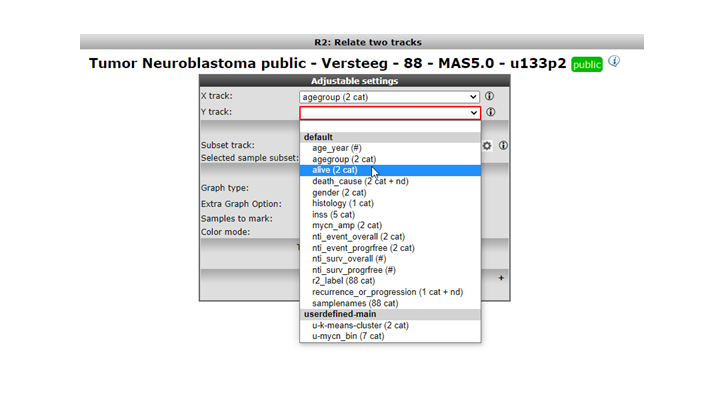
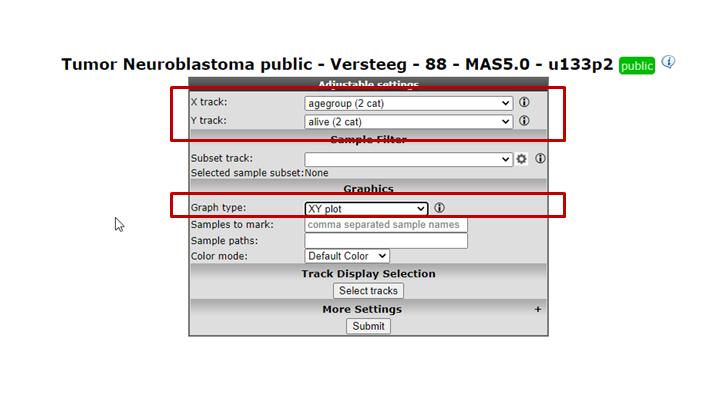
Annotattion analysis update / moving pics to separete dir

Changed region(s): [[0.0917, 0.0625, 0.9472, 0.8438], [0.1528, 0.5312, 0.1833, 0.5625]]

diff --git a/docs/Annotation_Analyses.md b/docs/Annotation_Analyses.md
@@ -60,7 +60,7 @@ Step 1: Relating 2 (categorical) tracks
     one (which can be recognized by (cat)). Let"s investigate whether
     there is a relation between the neuroblastoma age-group
     (track=agegroup, flip point being 18 months at diagnosis) and the
-    survival status (track=alive). Then press next to generate
+    survival status (track=alive). Select the 'XY' plot in the graph section. Then press next to generate
     the result.
     
     ![](_static/images/Annotation/AnnotationAnalyses_adjustv1.png "Figure 2: Select Selecting categorical tracks")
@@ -69,7 +69,7 @@ Step 1: Relating 2 (categorical) tracks
 	
 3. The generated result is now displayed on the screen. As we are
     testing 2 categorical variables, R2 has tested the relation between
-    the 2 tracks and finds a highly significant Fisher"s exact p-value,
+    the 2 tracks and finds a highly significant Fisher's exact p-value,
     indicating that there is a relation between the agegroup and vital
     status of the patients. The result is also shown in a honeycomb
     image, where every individual patient is represented as a separate
